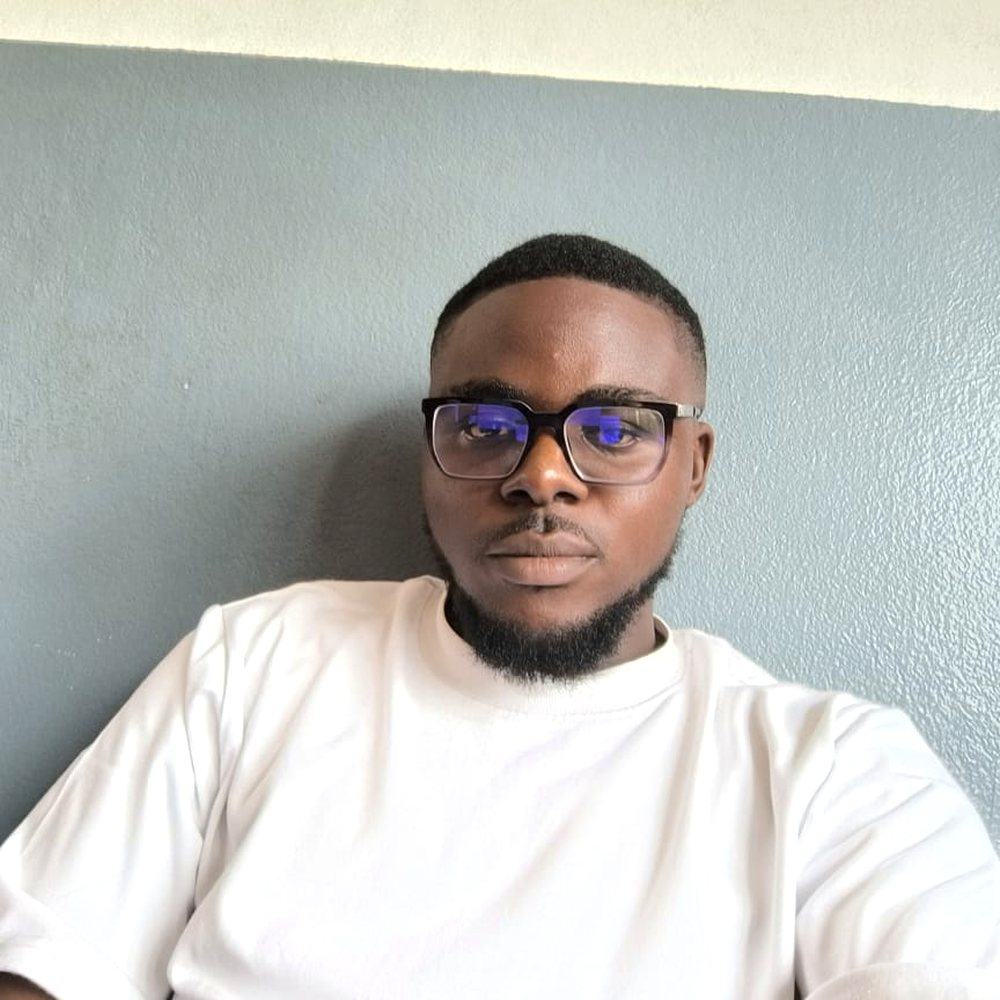
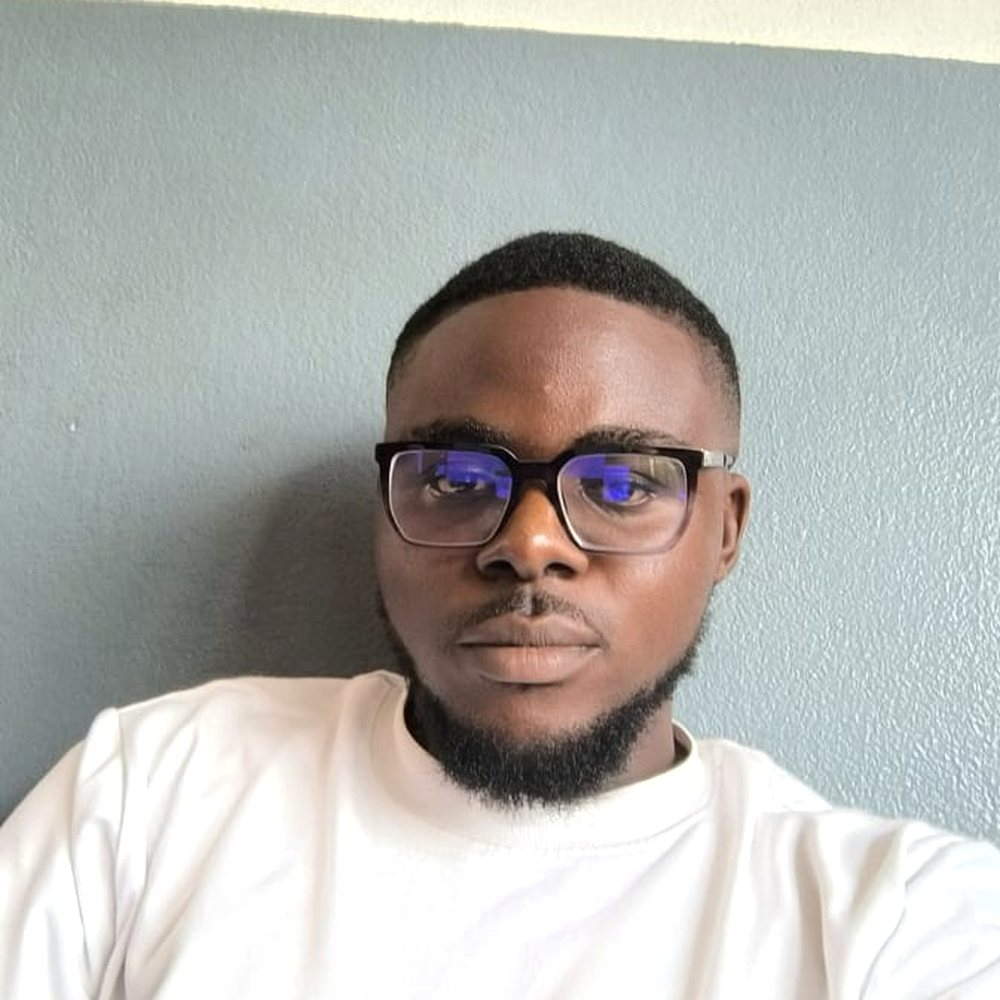
fixes

diff --git a/index.html b/index.html
@@ -387,6 +387,21 @@ html.hs .led-row{padding:.7rem 0}
 .stage-dots i{width:24px;height:3px;background:rgba(255,255,255,.35);cursor:pointer;transition:background .3s}
 .stage-dots i.on{background:#fff}
 
+/* ============ PROJECT ARCHIVE ============ */
+.arch-grid{display:grid;grid-template-columns:repeat(4,1fr);gap:.9rem}
+.arch{background:var(--white);border-radius:18px;padding:1.15rem 1.25rem;text-decoration:none;color:var(--black);display:flex;flex-direction:column;gap:.55rem;transition:transform .3s var(--ease)}
+.arch:hover{transform:translateY(-6px)}
+.arch h3{font-family:var(--font-d);font-size:1.05rem;line-height:1.15;display:flex;justify-content:space-between;align-items:center;gap:.5rem}
+.arch h3 .circle-arrow{width:30px;height:30px;flex:none}
+.arch .ctry{font-family:var(--font-m);font-size:.56rem;letter-spacing:.14em;text-transform:uppercase;color:#96938d}
+html.hs .arch{padding:.85rem 1rem;border-radius:14px}
+html.hs .arch h3{font-size:.92rem}
+html.hs .arch h3 .circle-arrow{width:26px;height:26px}
+html.hs .arch-grid{gap:.7rem}
+@media(max-width:900px){.arch-grid{grid-template-columns:repeat(2,1fr)}}
+#archive .pad{padding-bottom:clamp(1.6rem,4vw,3rem)}
+#archive + #connect .pad{padding-top:clamp(2.2rem,5vw,4rem)}
+
 /* ============ CONNECT ============ */
 .eng-right .stadium{aspect-ratio:900/1125;max-height:52vh}
 .connect-grid{display:grid;grid-template-columns:1fr 1fr;gap:clamp(2rem,6vw,5rem);align-items:center}
@@ -724,7 +739,7 @@ footer{background:var(--black);color:var(--white);padding:3rem 0 2.4rem}
         <div class="ship-img"><span class="tag">Healthcare</span><span style="display:grid;place-items:center;width:100%;height:100%;background:#0b4d26"><svg viewBox="0 0 48 48" style="width:42%;stroke:#c9ecd4;fill:none;stroke-width:2;stroke-linecap:round;stroke-linejoin:round"><path d="M6 24h8l4-10 6 20 4-10h14"/><rect x="4" y="8" width="40" height="32" rx="6"/></svg></span></div>
         <div class="ship-body">
           <h3>Medaccess <span class="circle-arrow"><svg viewBox="0 0 24 24"><path d="M7 17 17 7M17 7H8m9 0v9"/></svg></span></h3>
-          <p>Patients create accounts, book appointments and pay online.</p>
+          <p>Led as Tech Lead and CTO: patient and doctor Flutter apps, web platform and admin panel.</p>
           <span class="mini">medaccess.shineltd.org</span>
         </div>
       </a>
@@ -803,8 +818,22 @@ footer{background:var(--black);color:var(--white);padding:3rem 0 2.4rem}
     </div>
     <div class="acc rv" id="ledAcc">
       <div class="acc-item">
-        <button class="acc-row" id="ledb1" aria-expanded="false" aria-controls="ledp1">
+        <button class="acc-row" id="ledb0" aria-expanded="false" aria-controls="ledp0">
           <span class="n">01</span>
+          <span class="acc-t">Tech Lead &amp; CTO, Medaccess</span>
+          <span class="acc-code">CT-01</span>
+          <span class="acc-ic" aria-hidden="true"></span>
+        </button>
+        <div class="acc-p" id="ledp0" role="region" aria-labelledby="ledb0">
+          <div><div class="acc-in">
+            <p>Led a full healthcare system end to end: two Flutter mobile apps (patient and doctor), the web platform and the admin panel.</p>
+            <div class="acc-tags"><span>Tech Lead</span><span>CTO</span><span>Flutter x2</span><span>Web + Admin</span></div>
+          </div></div>
+        </div>
+      </div>
+      <div class="acc-item">
+        <button class="acc-row" id="ledb1" aria-expanded="false" aria-controls="ledp1">
+          <span class="n">02</span>
           <span class="acc-t">President, CS Student Body</span>
           <span class="acc-code">LD-01</span>
           <span class="acc-ic" aria-hidden="true"></span>
@@ -818,7 +847,7 @@ footer{background:var(--black);color:var(--white);padding:3rem 0 2.4rem}
       </div>
       <div class="acc-item">
         <button class="acc-row" id="ledb2" aria-expanded="false" aria-controls="ledp2">
-          <span class="n">02</span>
+          <span class="n">03</span>
           <span class="acc-t">Community Educator</span>
           <span class="acc-code">ED-02</span>
           <span class="acc-ic" aria-hidden="true"></span>
@@ -832,7 +861,7 @@ footer{background:var(--black);color:var(--white);padding:3rem 0 2.4rem}
       </div>
       <div class="acc-item">
         <button class="acc-row" id="ledb3" aria-expanded="false" aria-controls="ledp3">
-          <span class="n">03</span>
+          <span class="n">04</span>
           <span class="acc-t">Second Class Upper Honours</span>
           <span class="acc-code">AC-03</span>
           <span class="acc-ic" aria-hidden="true"></span>
@@ -846,7 +875,7 @@ footer{background:var(--black);color:var(--white);padding:3rem 0 2.4rem}
       </div>
       <div class="acc-item">
         <button class="acc-row" id="ledb4" aria-expanded="false" aria-controls="ledp4">
-          <span class="n">04</span>
+          <span class="n">05</span>
           <span class="acc-t">GitHub Recognitions</span>
           <span class="acc-code">GH-04</span>
           <span class="acc-ic" aria-hidden="true"></span>
@@ -860,7 +889,7 @@ footer{background:var(--black);color:var(--white);padding:3rem 0 2.4rem}
       </div>
       <div class="acc-item">
         <button class="acc-row" id="ledb5" aria-expanded="false" aria-controls="ledp5">
-          <span class="n">05</span>
+          <span class="n">06</span>
           <span class="acc-t">Platform Builder, Sintieh Research Academy</span>
           <span class="acc-code">PB-05</span>
           <span class="acc-ic" aria-hidden="true"></span>
@@ -1001,6 +1030,62 @@ footer{background:var(--black);color:var(--white);padding:3rem 0 2.4rem}
   <div class="stage-dots" id="stageDots"></div>
 </div>
 
+<!-- ============ PROJECT ARCHIVE ============ -->
+<section id="archive" class="light panel">
+  <div class="pad">
+  <div class="wrap">
+    <div class="g-head rv">
+      <h2 class="g-title"><span class="gdot"></span>Project<br>Archive</h2>
+      <div class="g-aside">
+        <p>Every brand, full files. Click any project to open its folder.</p>
+      </div>
+    </div>
+    <div class="arch-grid">
+      <a class="arch rv" href="https://drive.google.com/drive/folders/1P9v4Cz61AdfU0GEKehlOcHD9s6lghqjG?usp=drive_link" target="_blank" rel="noopener">
+        <h3>SafeRide <span class="circle-arrow"><svg viewBox="0 0 24 24"><path d="M7 17 17 7M17 7H8m9 0v9"/></svg></span></h3>
+        <span class="ctry">Cameroon</span>
+      </a>
+      <a class="arch rv" href="https://drive.google.com/drive/folders/1Gyn8-oFkVU5Moq95NIQre8U-9y988YqK?usp=drive_link" target="_blank" rel="noopener">
+        <h3>Take <span class="circle-arrow"><svg viewBox="0 0 24 24"><path d="M7 17 17 7M17 7H8m9 0v9"/></svg></span></h3>
+        <span class="ctry">Cameroon</span>
+      </a>
+      <a class="arch rv" href="https://drive.google.com/drive/folders/1KNNcEAAIr0CQwP0TWiFVjBlXWf-0bcPV?usp=drive_link" target="_blank" rel="noopener">
+        <h3>Harald International <span class="circle-arrow"><svg viewBox="0 0 24 24"><path d="M7 17 17 7M17 7H8m9 0v9"/></svg></span></h3>
+        <span class="ctry">United States</span>
+      </a>
+      <a class="arch rv" href="https://drive.google.com/file/d/14oo8QbEbk82Vkjb81j9V7h7QCuCnyKw6/view?usp=drive_link" target="_blank" rel="noopener">
+        <h3>Dcemedia <span class="circle-arrow"><svg viewBox="0 0 24 24"><path d="M7 17 17 7M17 7H8m9 0v9"/></svg></span></h3>
+        <span class="ctry">Cameroon</span>
+      </a>
+      <a class="arch rv" href="https://drive.google.com/drive/folders/10pje5EbvG4VRc_YhAMk6MyIYl-6Ixdmf?usp=drive_link" target="_blank" rel="noopener">
+        <h3>Bloomy <span class="circle-arrow"><svg viewBox="0 0 24 24"><path d="M7 17 17 7M17 7H8m9 0v9"/></svg></span></h3>
+        <span class="ctry">Cameroon</span>
+      </a>
+      <a class="arch rv" href="https://drive.google.com/drive/folders/1OhQDCeFHpbrlELyduVaA0lVwBSxCIdKV?usp=drive_link" target="_blank" rel="noopener">
+        <h3>Nchibiri, Nsibidi <span class="circle-arrow"><svg viewBox="0 0 24 24"><path d="M7 17 17 7M17 7H8m9 0v9"/></svg></span></h3>
+        <span class="ctry">Cameroon</span>
+      </a>
+      <a class="arch rv" href="https://drive.google.com/drive/folders/1Mds2OAy4oVf0uPST9s1lsjolUipAy9DD?usp=drive_link" target="_blank" rel="noopener">
+        <h3>Leesh Dezynes <span class="circle-arrow"><svg viewBox="0 0 24 24"><path d="M7 17 17 7M17 7H8m9 0v9"/></svg></span></h3>
+        <span class="ctry">United Kingdom</span>
+      </a>
+      <a class="arch rv" href="https://drive.google.com/drive/folders/1Bx-oTQfjuPTdzjgtyYXiwQWYNNy09YIK?usp=drive_link" target="_blank" rel="noopener">
+        <h3>Nordishea <span class="circle-arrow"><svg viewBox="0 0 24 24"><path d="M7 17 17 7M17 7H8m9 0v9"/></svg></span></h3>
+        <span class="ctry">United Kingdom</span>
+      </a>
+      <a class="arch rv" href="https://drive.google.com/drive/folders/1_OMMa4lpfoXb6XPyGLLm1NDiFaSzR0UF?usp=drive_link" target="_blank" rel="noopener">
+        <h3>Wealcare <span class="circle-arrow"><svg viewBox="0 0 24 24"><path d="M7 17 17 7M17 7H8m9 0v9"/></svg></span></h3>
+        <span class="ctry">United States</span>
+      </a>
+      <a class="arch rv" href="https://drive.google.com/drive/folders/1tP7EPhXcMq_PhUR3vvROKiTn_gkinrQE?usp=drive_link" target="_blank" rel="noopener">
+        <h3>Zerra Staffing <span class="circle-arrow"><svg viewBox="0 0 24 24"><path d="M7 17 17 7M17 7H8m9 0v9"/></svg></span></h3>
+        <span class="ctry">United Kingdom</span>
+      </a>
+    </div>
+  </div>
+  </div>
+</section>
+
 <!-- ============ CONNECT ============ -->
 <section id="connect" class="light panel connect-panel">
   <div class="pad" style="padding-bottom:0">
@@ -1037,6 +1122,7 @@ footer{background:var(--black);color:var(--white);padding:3rem 0 2.4rem}
         <a href="#shipped">shipped live</a>
         <a href="#leadership">leadership</a>
         <a href="#work">the design work</a>
+        <a href="#archive">project archive</a>
         <a href="#connect">contact me</a>
       </div>
       <div class="f-col">
@@ -1051,6 +1137,7 @@ footer{background:var(--black);color:var(--white);padding:3rem 0 2.4rem}
       <div class="f-col">
         <p class="fh">Status</p>
         <a href="#connect">Open for projects and roles</a>
+        <a href="Diyoh_Shiloh_Resume.pdf" target="_blank" rel="noopener">download resume (pdf)</a>
         <a href="#top">Back to top</a>
       </div>
     </div>
